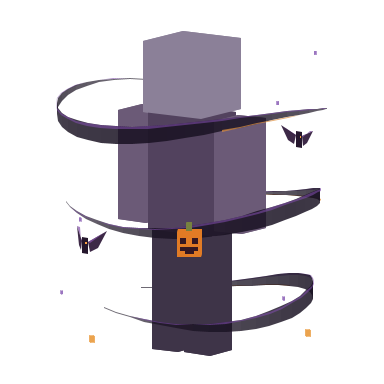
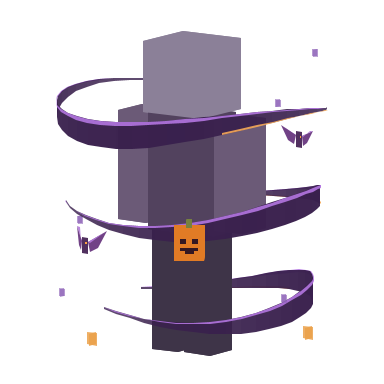
Improve aura visibility with unlit rendering and stronger effects

diff --git a/src/main/java/com/axial/cosmetics/client/HexwindGeometry.java b/src/main/java/com/axial/cosmetics/client/HexwindGeometry.java
@@ -21,12 +21,12 @@ public final class HexwindGeometry {
                 double t=segment/(double)segments,next=(segment+1.0)/segments;
                 double a=start+t*Math.PI*1.4,b=start+next*Math.PI*1.4;
                 double h1=base+Math.sin(a*2+band)*.06,h2=base+Math.sin(b*2+band)*.06;
-                double width1=.006+.105*Math.sin(t*Math.PI)*Math.sin(t*Math.PI),width2=.006+.105*Math.sin(next*Math.PI)*Math.sin(next*Math.PI);
-                int alpha=(int)(155+60*Math.sin(t*Math.PI));
-                mesh.add(new Quad(orbit(a,radius,h1-width1/2),orbit(b,radius,h2-width2/2),orbit(b,radius,h2+width2/2),orbit(a,radius,h1+width1/2),(alpha<<24)|0x171020));
+                double width1=.012+.155*Math.sin(t*Math.PI)*Math.sin(t*Math.PI),width2=.012+.155*Math.sin(next*Math.PI)*Math.sin(next*Math.PI);
+                int alpha=(int)(205+45*Math.sin(t*Math.PI));
+                mesh.add(new Quad(orbit(a,radius,h1-width1/2),orbit(b,radius,h2-width2/2),orbit(b,radius,h2+width2/2),orbit(a,radius,h1+width1/2),(alpha<<24)|0x39204D));
                 // Raised strips follow the smoke's edge, not a full solid neon ring.
-                mesh.add(new Quad(orbit(a,radius+.006,h1+width1*.36),orbit(b,radius+.006,h2+width2*.36),orbit(b,radius+.006,h2+width2*.5),orbit(a,radius+.006,h1+width1*.5),0x947D4BA8));
-                if(segment>segments*2/3)mesh.add(new Quad(orbit(a,radius+.01,h1-width1*.5),orbit(b,radius+.01,h2-width2*.5),orbit(b,radius+.01,h2-width2*.4),orbit(a,radius+.01,h1-width1*.4),0xB5DE8F3F));
+                mesh.add(new Quad(orbit(a,radius+.006,h1+width1*.36),orbit(b,radius+.006,h2+width2*.36),orbit(b,radius+.006,h2+width2*.5),orbit(a,radius+.006,h1+width1*.5),0xE6B276E0));
+                if(segment>segments*2/3)mesh.add(new Quad(orbit(a,radius+.01,h1-width1*.5),orbit(b,radius+.01,h2-width2*.5),orbit(b,radius+.01,h2-width2*.4),orbit(a,radius+.01,h1-width1*.4),0xE6F5A957));
             }
         }
         for(int bat=0;bat<2;bat++) {
@@ -39,13 +39,13 @@ public final class HexwindGeometry {
         for(int i=0;i<motes;i++) {
             double angle=phase*(i%2==0?1:-1)+i*2.39996;
             double height=.14+(i%6)*.31+Math.sin(phase*2+i)*.06;
-            Point center=orbit(angle,.85+(i%3)*.04,height);double size=i%3==0?.022:.012;
+            Point center=orbit(angle,.85+(i%3)*.04,height);double size=i%3==0?.038:.023;
             square(mesh,center,size,i%3==0?0xD9EBA14A:0xA68E63B7);
         }
         return List.copyOf(mesh);
     }
     private static void pumpkin(List<Quad> mesh,double angle,double radius,double y) {
-        Point center=orbit(angle,radius,y);double axis=angle+Math.PI/2,r=.075;
+        Point center=orbit(angle,radius,y);double axis=angle+Math.PI/2,r=.095;
         cube(mesh,center,axis,r,r,r,0xFFE17B25);
         cube(mesh,local(center,axis,0,r+.024,0),axis,.018,.025,.018,0xFF77813F);
         for(int side:new int[]{-1,1}) {
@@ -74,12 +74,12 @@ public final class HexwindGeometry {
         double wing=.12+Math.cos(flap)*.025;
         // Bat wings are angular panels with notched lower edges and a gently changing pitch.
         Point bodyLow=local(center,tangent,-.025,-.05,0),bodyHigh=local(center,tangent,.025,.05,0);
-        mesh.add(new Quad(bodyLow,local(center,tangent,.025,-.05,0),bodyHigh,local(center,tangent,-.025,.05,0),0xFF25172D));
+        mesh.add(new Quad(bodyLow,local(center,tangent,.025,-.05,0),bodyHigh,local(center,tangent,-.025,.05,0),0xFF51305F));
         for(int side:new int[]{-1,1}) {
             Point root=local(center,tangent,side*.025,.025,0),tip=local(center,tangent,side*wing,.065+flap*.045,Math.sin(flap)*.09);
             Point notch=local(center,tangent,side*.085,-.012,Math.sin(flap)*.045),lower=local(center,tangent,side*.04,-.035,0);
-            mesh.add(new Quad(root,tip,notch,lower,0xF535203F));
-            mesh.add(new Quad(root,tip,local(center,tangent,side*(wing-.025),.058+flap*.045,Math.sin(flap)*.09),local(center,tangent,side*.04,.018,0),0xB98954AD));
+            mesh.add(new Quad(root,tip,notch,lower,0xFF714286));
+            mesh.add(new Quad(root,tip,local(center,tangent,side*(wing-.025),.058+flap*.045,Math.sin(flap)*.09),local(center,tangent,side*.04,.018,0),0xE6B47BDC));
         }
         for(int side:new int[]{-1,1}) {
             Point eye=local(center,tangent,side*.012,.015,-.004);

diff --git a/src/main/java/com/axial/cosmetics/client/PixelStarsGeometry.java b/src/main/java/com/axial/cosmetics/client/PixelStarsGeometry.java
@@ -7,7 +7,7 @@ import com.axial.cosmetics.client.HexwindGeometry.Quad;
 /** Crisp pastel pixel stars. World-space births let a moving player leave a real trail. */
 public final class PixelStarsGeometry {
     public static final float PERIOD=120;
-    static final int[] COLORS={0xFAFDFF,0xBCE7FF,0xFFD0EA};
+    static final int[] COLORS={0xFAFDFF,0xA8DFFF,0xFFB8DF};
     public record Star(double x,double y,double z,double vx,double vy,double vz,double born,double life,float size,int color,float angle) {}
     private PixelStarsGeometry() {}
     public static List<Quad> render(List<Star> stars,double tick,double x,double y,double z,float yaw,boolean detailed){
@@ -15,18 +15,18 @@ public final class PixelStarsGeometry {
         for(int i=0;i<stars.size();i++){
             if(!detailed&&i%2!=0)continue;
             var star=stars.get(i);double age=tick-star.born();if(age<0||age>=star.life())continue;
-            double t=age/star.life(),fade=Math.min(1,age/2)*Math.min(1,(1-t)*3);
+            double t=age/star.life(),fade=Math.min(1,age/1.2)*Math.min(1,(1-t)*5);
             double dx=star.x()+star.vx()*age-x,dz=star.z()+star.vz()*age-z;
             double px=cos*dx+sin*dz,pz=sin*dx-cos*dz,py=star.y()+star.vy()*age-y;
-            double size=star.size()*(.75+.25*Math.sin(age*.45+star.angle()))*(1-.25*t);
-            int color=((int)(fade*235)<<24)|star.color();
+            double size=star.size()*1.55*(.93+.07*Math.sin(age*.45+star.angle()))*(1-.10*t);
+            int color=((int)(fade*255)<<24)|star.color();
             for(double plane:new double[]{0,Math.PI/2}){
                 if(detailed){
                     int[] rows={1,1,3,7,3,1,1};double pixel=size/3.5;
                     for(int row=0;row<rows.length;row++)rect(mesh,px,py,pz,-rows[row]*pixel/2,(row-3.5)*pixel,rows[row]*pixel,pixel,plane,star.angle()+age*.015,color);
                     rect(mesh,px,py,pz,-pixel*.4,-pixel*.4,pixel*.8,pixel*.8,plane,star.angle()+age*.015,((int)(fade*255)<<24)|0xFAFDFF);
                     // Faint separated tip pixels add sparkle without a solid square halo.
-                    for(int tip:new int[]{-1,1})rect(mesh,px,py,pz,tip*size*1.15-pixel/2,-pixel/2,pixel,pixel,plane,star.angle()+age*.015,((int)(fade*55)<<24)|star.color());
+                    for(int tip:new int[]{-1,1})rect(mesh,px,py,pz,tip*size*1.15-pixel/2,-pixel/2,pixel,pixel,plane,star.angle()+age*.015,((int)(fade*110)<<24)|star.color());
                 }else{
                     rect(mesh,px,py,pz,-size,-size/5,size*2,size*2/5,plane,star.angle(),color);
                     rect(mesh,px,py,pz,-size/5,-size,size*2/5,size*2,plane,star.angle(),color);

diff --git a/src/main/java/com/axial/cosmetics/client/AuraFeatureRenderer.java b/src/main/java/com/axial/cosmetics/client/AuraFeatureRenderer.java
@@ -2,7 +2,6 @@ package com.axial.cosmetics.client;
 
 import net.minecraft.client.MinecraftClient;
 import net.minecraft.client.render.OverlayTexture;
-import net.minecraft.client.render.RenderLayers;
 import net.minecraft.client.render.VertexConsumer;
 import net.minecraft.client.render.command.OrderedRenderCommandQueue;
 import net.minecraft.client.render.entity.feature.FeatureRenderer;
@@ -10,11 +9,9 @@ import net.minecraft.client.render.entity.feature.FeatureRendererContext;
 import net.minecraft.client.render.entity.model.PlayerEntityModel;
 import net.minecraft.client.render.entity.state.PlayerEntityRenderState;
 import net.minecraft.client.util.math.MatrixStack;
-import net.minecraft.util.Identifier;
 
 /** Animated cosmetic geometry; no particles, entities or server mutations. */
 public final class AuraFeatureRenderer extends FeatureRenderer<PlayerEntityRenderState,PlayerEntityModel> {
-    private static final Identifier WHITE=Identifier.of("axial_cosmetics","textures/entity/auras/white.png");
     public AuraFeatureRenderer(FeatureRendererContext<PlayerEntityRenderState,PlayerEntityModel> context){super(context);}
     @Override public void render(MatrixStack matrices,OrderedRenderCommandQueue commands,int light,PlayerEntityRenderState state,float yaw,float pitch) {
         WardrobeAura aura;
@@ -40,7 +37,7 @@ public final class AuraFeatureRenderer extends FeatureRenderer<PlayerEntityRende
             case GOLD_SPARK -> GoldSparkGeometry.frame(time,distance<24*24);
             case PIXEL_STARS -> trailAccount==null?PixelStarsGeometry.frame(time,true):PixelStarsTrail.frame(trailAccount,state,partial,distance<24*24);
         };
-        commands.submitCustom(matrices,RenderLayers.entityTranslucentEmissiveNoOutline(WHITE),(entry,vertices)->{
+        commands.submitCustom(matrices,AuraRenderLayers.layer(),(entry,vertices)->{
             for(var quad:mesh) {
                 vertex(vertices,entry,quad.a(),quad.color());vertex(vertices,entry,quad.b(),quad.color());
                 vertex(vertices,entry,quad.c(),quad.color());vertex(vertices,entry,quad.d(),quad.color());

diff --git a/src/main/java/com/axial/cosmetics/client/GoldSparkGeometry.java b/src/main/java/com/axial/cosmetics/client/GoldSparkGeometry.java
@@ -19,8 +19,8 @@ public final class GoldSparkGeometry {
             sparks.add(new Spark(i * (PERIOD / 72.0) + random.nextDouble() * 1.4,
                     12 + random.nextDouble() * 8, random.nextDouble() * Math.PI * 2,
                     .48 + random.nextDouble() * .3, .16 + random.nextDouble() * .65,
-                    .85 + random.nextDouble() * .45, .12 + random.nextDouble() * .26,
-                    .018 + random.nextDouble() * .014, random.nextDouble() * Math.PI * 2));
+                    .85 + random.nextDouble() * .45, .16 + random.nextDouble() * .32,
+                    .032 + random.nextDouble() * .020, random.nextDouble() * Math.PI * 2));
         }
         SPARKS = List.copyOf(sparks);
     }
@@ -34,8 +34,8 @@ public final class GoldSparkGeometry {
             double age = (time - s.birth + PERIOD) % PERIOD;
             if (age >= s.life) continue;
             double t = age / s.life;
-            double fade = Math.min(1, t * 7) * Math.min(1, (1 - t) * 5);
-            double shimmer = .7 + .3 * Math.pow(Math.sin(age * 1.25 + s.phase), 2);
+            double fade = Math.min(1, t * 10) * Math.min(1, (1 - t) * 6);
+            double shimmer = .9 + .1 * Math.pow(Math.sin(age * 1.25 + s.phase), 2);
             double x = Math.cos(s.angle) * s.radius, z = Math.sin(s.angle) * s.radius;
             double y = s.base + s.rise * t;
             // Short separated steps keep trails crisp, with a brighter leading tip.
@@ -57,7 +57,7 @@ public final class GoldSparkGeometry {
         return List.copyOf(mesh);
     }
     private static int color(double alpha, int rgb) {
-        return ((int)(Math.max(0, Math.min(1, alpha)) * 255) << 24) | rgb;
+        return ((int)(Math.pow(Math.max(0, Math.min(1, alpha)),.65) * 255) << 24) | rgb;
     }
     private static Point p(double x, double y, double z) { return new Point((float)x, (float)y, (float)z); }
     private static void panel(List<Quad> mesh, double x, double y, double z, double w, double h, int color) {

diff --git a/src/test/java/com/axial/cosmetics/client/AuraVisibilityTest.java b/src/test/java/com/axial/cosmetics/client/AuraVisibilityTest.java
@@ -1,0 +1,31 @@
+package com.axial.cosmetics.client;
+
+import java.util.*;
+import org.junit.jupiter.api.Test;
+import static org.junit.jupiter.api.Assertions.*;
+
+class AuraVisibilityTest {
+    @Test void auraPipelineIsUnlitEmissiveWithoutDirectionalBackFaceDimming(){
+        var flags=AuraRenderLayers.PIPELINE.getShaderDefines().flags();
+        assertTrue(flags.contains("EMISSIVE"));assertTrue(flags.contains("NO_CARDINAL_LIGHTING"));assertTrue(flags.contains("NO_OVERLAY"));
+        assertFalse(flags.contains("PER_FACE_LIGHTING"));
+    }
+    @Test void starsStayOpaqueAcrossTheMainLifetimeThenFadeOut(){
+        var star=new PixelStarsGeometry.Star(0,1,0,0,0,0,0,20,.12f,0xA8DFFF,0);
+        for(double tick:new double[]{3,8,15}){
+            var mesh=PixelStarsGeometry.render(List.of(star),tick,0,0,0,0,true);
+            assertEquals(255,mesh.getFirst().color()>>>24);
+            double left=Double.POSITIVE_INFINITY,right=Double.NEGATIVE_INFINITY;
+            for(var q:mesh)for(var p:List.of(q.a(),q.b(),q.c(),q.d())){left=Math.min(left,p.x());right=Math.max(right,p.x());}
+            assertTrue(right-left>.30,"Stars should have a readable silhouette rather than tiny dim pinpoints");
+        }
+        assertTrue((PixelStarsGeometry.render(List.of(star),19,0,0,0,0,true).getFirst().color()>>>24)<100);
+        assertTrue(PixelStarsGeometry.render(List.of(star),20,0,0,0,0,true).isEmpty());
+    }
+    @Test void hexwindRibbonsHaveVisibleColorAndAlpha(){
+        var ribbons=HexwindGeometry.frame(30,true);
+        assertTrue((ribbons.getFirst().color()>>>24)>=200);
+        assertTrue(((ribbons.getFirst().color()>>>16)&255)>=50);
+        assertTrue((ribbons.get(1).color()>>>24)>=220);
+    }
+}

diff --git a/src/main/java/com/axial/cosmetics/client/AuraRenderLayers.java b/src/main/java/com/axial/cosmetics/client/AuraRenderLayers.java
@@ -1,0 +1,25 @@
+package com.axial.cosmetics.client;
+
+import com.mojang.blaze3d.pipeline.BlendFunction;
+import com.mojang.blaze3d.pipeline.RenderPipeline;
+import net.minecraft.client.gl.RenderPipelines;
+import net.minecraft.client.render.RenderLayer;
+import net.minecraft.client.render.RenderSetup;
+import net.minecraft.util.Identifier;
+
+/** Emissive and unlit on both faces; alpha blending still preserves the lifetime fade. */
+public final class AuraRenderLayers {
+    static final RenderPipeline PIPELINE=RenderPipelines.register(RenderPipeline.builder(RenderPipelines.ENTITY_EMISSIVE_SNIPPET)
+            .withLocation(Identifier.of("axial_cosmetics","pipeline/aura_unlit"))
+            .withShaderDefine("NO_CARDINAL_LIGHTING").withShaderDefine("NO_OVERLAY")
+            .withBlend(BlendFunction.TRANSLUCENT).withCull(false).withDepthWrite(false).build());
+    private static RenderLayer layer;
+    private AuraRenderLayers() {}
+    public static void initialize() {} // Register before shader reload, alongside the other client pipelines.
+    static RenderLayer layer(){
+        if(layer==null)layer=RenderLayer.of("axial_aura_unlit",RenderSetup.builder(PIPELINE)
+                .texture("Sampler0",Identifier.of("axial_cosmetics","textures/entity/auras/white.png"))
+                .translucent().expectedBufferSize(1536).build());
+        return layer;
+    }
+}

diff --git a/src/main/java/com/axial/cosmetics/AxialCosmetics.java b/src/main/java/com/axial/cosmetics/AxialCosmetics.java
@@ -61,6 +61,7 @@ public class AxialCosmetics implements ClientModInitializer {
     public void onInitializeClient() {
         BundledEmoteSynchronizer.synchronize();
         com.axial.cosmetics.client.EmoteMenuTheme.initialize();
+        com.axial.cosmetics.client.AuraRenderLayers.initialize();
         com.axial.cosmetics.client.EmoteRelay.initialize();
         PayloadTypeRegistry.playC2S().register(com.axial.cosmetics.client.GangDirectoryPayload.ID,com.axial.cosmetics.client.GangDirectoryPayload.CODEC);
         PayloadTypeRegistry.playS2C().register(com.axial.cosmetics.client.GangDirectoryPayload.ID,com.axial.cosmetics.client.GangDirectoryPayload.CODEC);

diff --git a/src/test/java/com/axial/cosmetics/client/GoldSparkAuraTest.java b/src/test/java/com/axial/cosmetics/client/GoldSparkAuraTest.java
@@ -12,7 +12,7 @@ class GoldSparkAuraTest {
             assertTrue(mesh.size() < 400);
             for (var quad : mesh) for (var p : List.of(quad.a(), quad.b(), quad.c(), quad.d())) {
                 assertTrue(Float.isFinite(p.x()) && Float.isFinite(p.y()) && Float.isFinite(p.z()));
-                assertTrue(Math.abs(p.x()) < .9 && Math.abs(p.z()) < .9);
+                assertTrue(Math.abs(p.x()) < 1.1 && Math.abs(p.z()) < 1.1);
                 assertTrue(p.y() > -.2 && p.y() < 2.3);
             }
         }

diff --git a/src/test/java/com/axial/cosmetics/client/PixelStarsAuraTest.java b/src/test/java/com/axial/cosmetics/client/PixelStarsAuraTest.java
@@ -43,7 +43,7 @@ class PixelStarsAuraTest {
                 assertTrue(Math.abs(p.x())<2&&Math.abs(p.z())<2.5&&p.y()>-.5&&p.y()<2.5);
             }}
         }
-        assertEquals(Set.of(0xFAFDFF,0xBCE7FF,0xFFD0EA),colors);
+        assertEquals(Set.of(0xFAFDFF,0xA8DFFF,0xFFB8DF),colors);
     }
     @Test void playerTranslationIsRemovedFromTheHistoricalStarPosition() {
         var star=new PixelStarsGeometry.Star(4,1,2,0,0,0,0,20,.12f,0xFAFDFF,0);

diff --git a/backend/cosmetics/PIXEL_STARS.md b/backend/cosmetics/PIXEL_STARS.md
@@ -1,7 +1,7 @@
 # Pixel Stars
 
 Cosmetic ID: `pixel_stars`. Category: Auras. Display name: Pixel Stars.
-White (#FAFDFF), light blue (#BCE7FF), and light pink (#FFD0EA) pixel stars.
+White (#FAFDFF), light blue (#A8DFFF), and light pink (#FFB8DF) pixel stars.
 
 Movement emits stars around the player's body. Birth positions are kept in world
 space, so stars drift radially outward and upward and form a real fading trail.
